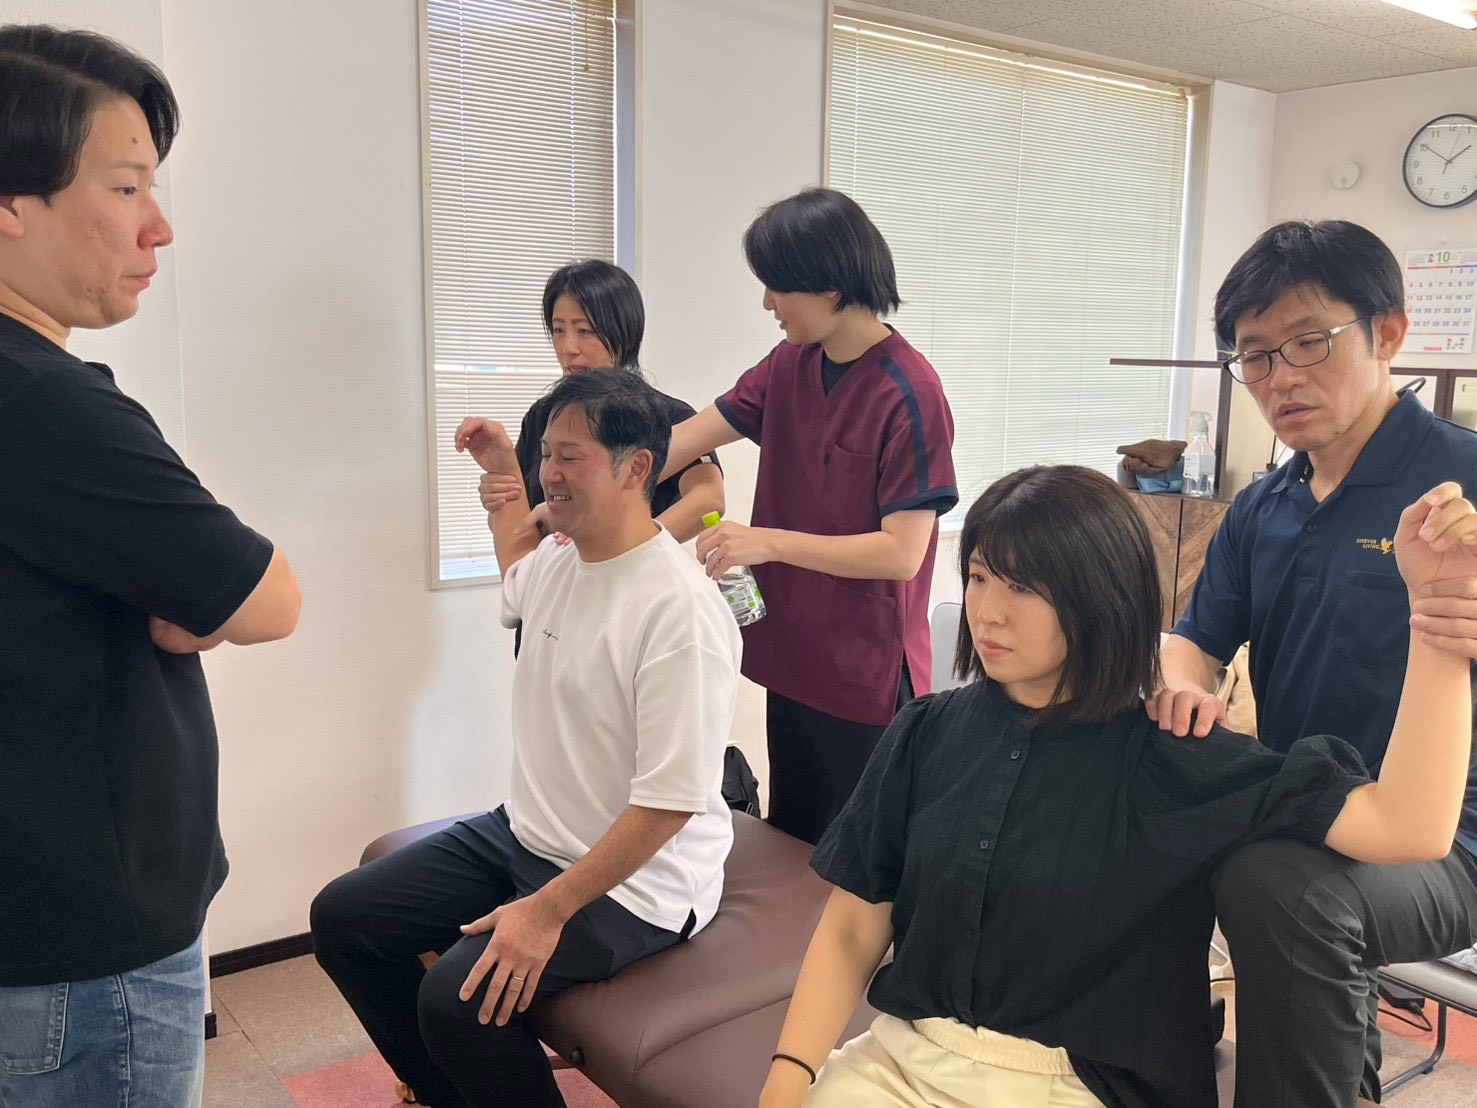
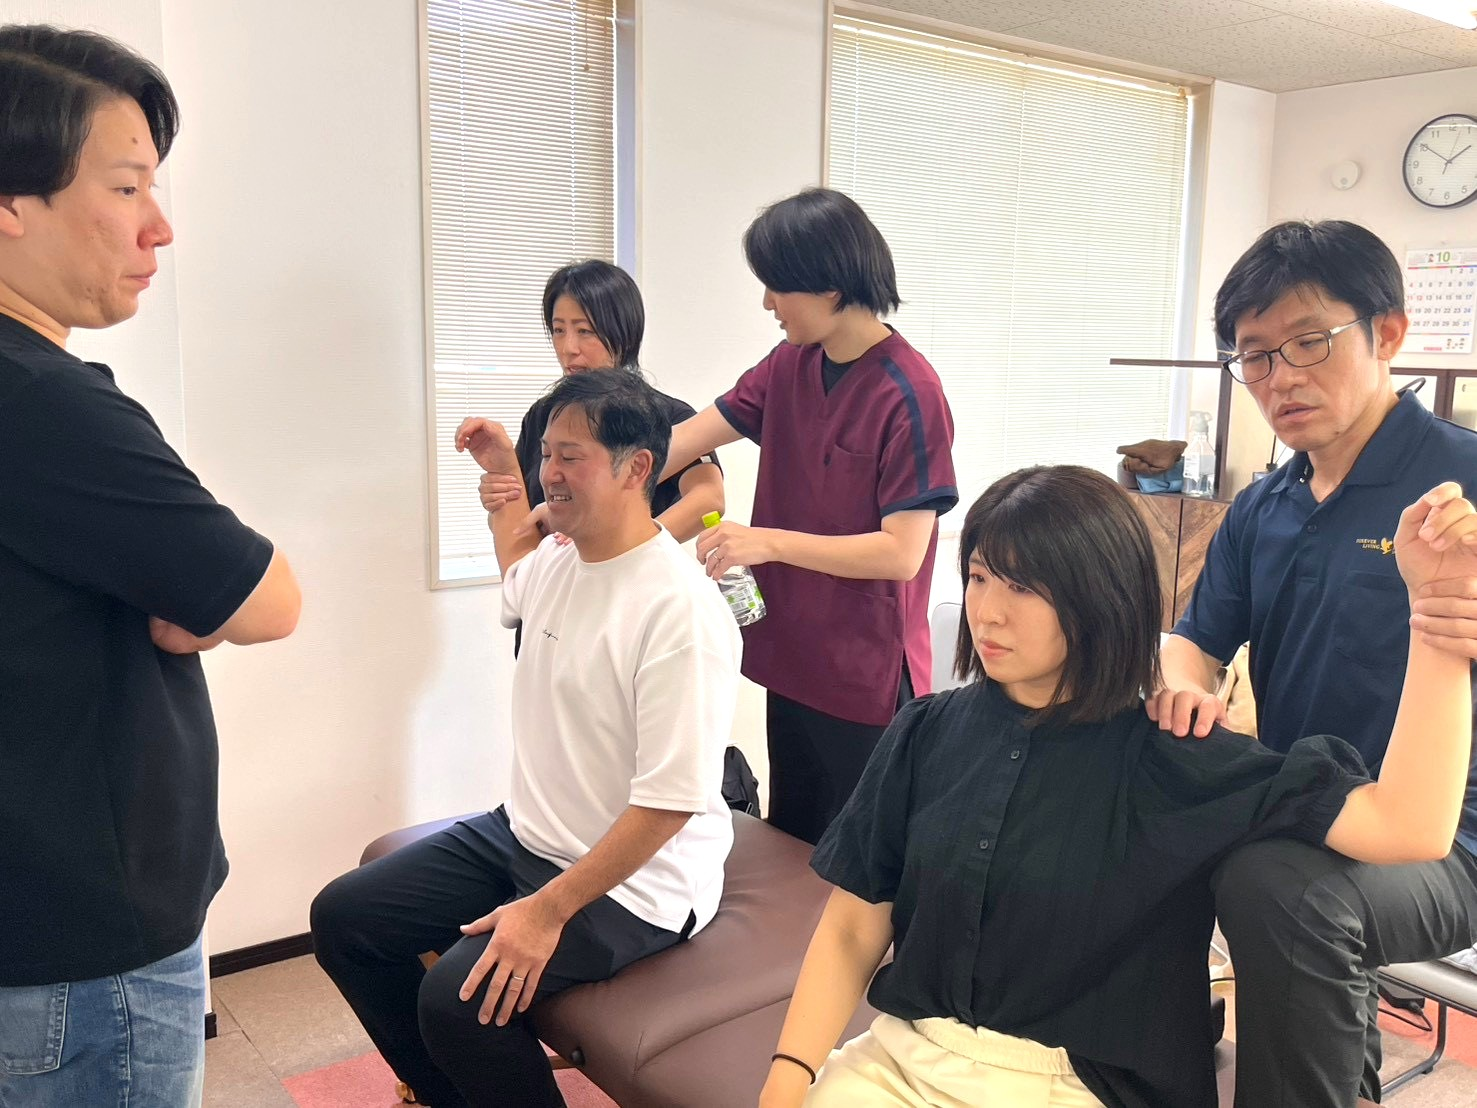
update ver1.0.7 -test version

diff --git a/index.html b/index.html
@@ -226,7 +226,7 @@
       <div class="reason-card"><div class="reason-photo image-placeholder"><img src="images/reason-01.jpg" alt="少人数での実技指導"></div><span class="reason-no">01</span><h3>直営店舗で月間250万円の売上を<br>出し続ける院長から直接学べる</h3><p>整体店舗運営のスペシャリストが研修担当となり、技術・顧客対応を見ながら、一人ひとりに直接指導いたします。</p></div>
       <div class="reason-card"><div class="reason-photo image-placeholder"><img src="images/reason-02.jpg" alt="授業の動画撮影"></div><span class="reason-no">02</span><h3>1店舗年商1億円を達成した<br>数値改善のプロによる伴奏サポート</h3><p>1ヶ月目から変わるアクションプランを作成し、店舗の売上・コストカットなど数値面を改善いたします。初月から利益が倍増された方もたくさんおられます。</p></div>
       <div class="reason-card"><div class="reason-photo image-placeholder"><img src="images/reason-03.png" alt="身体の仕組みを学ぶ講義"></div><span class="reason-no">03</span><h3>加盟店限定の格安広告代行で<br>集客の悩みを一掃できる</h3><p>毎月集客に頭を悩ませる店舗オーナーの方は、本部の広告代行に集客を丸投げできます。広告費3000円で1件の予約が獲得できた事例もございます。</p></div>
-      <div class="reason-card"><div class="reason-photo image-placeholder"><img src="images/reason-04.png" alt="ストレッチ実技の様子"></div><span class="reason-no">04</span><h3>他社フランチャイズと比べて<br>圧倒的ローコスト</h3><p>加盟金など加盟にかかる費用が、圧倒的に安く分割払いも可能です。</p></div>
+      <div class="reason-card"><div class="reason-photo image-placeholder"><img src="images/reason-04.jpg" alt="ストレッチ実技の様子"></div><span class="reason-no">04</span><h3>他社フランチャイズと比べて<br>圧倒的ローコスト</h3><p>加盟金など加盟にかかる費用が、圧倒的に安く分割払いも可能です。</p></div>
       <div class="reason-card"><div class="reason-photo image-placeholder"><img src="images/reason-05.jpg" alt="ストレッチ実技の様子"></div><span class="reason-no">05</span><h3>継続的に学び続けられる<br>月に1回の研修会を開催</h3><p>技術・カウンセリング・経営など時流に負けない最新の学びが盛りだくさんで、常にスキルアップが可能です。</p></div>
     </section>
 
